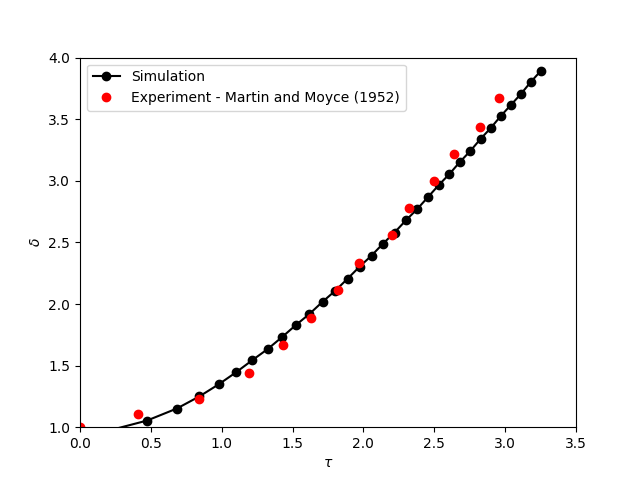
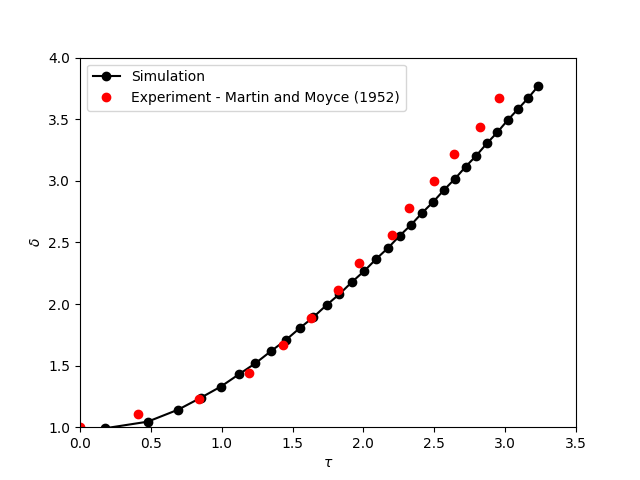
Add phase filter to the 2d dam-break VOF example

Changed region(s): [[0.1562, 0.125, 0.875, 0.9062]]

diff --git a/examples/multiphysics/dam-break/dam-break-2d.py b/examples/multiphysics/dam-break/dam-break-2d.py
@@ -41,7 +41,7 @@ phase_limit = 0.5
 output_path = sys.argv[1]
 
 # Read the pvd file to extract the times
-reader = pv.get_reader("output/dam-break.pvd")
+reader = pv.get_reader(f"{output_path}/dam-break.pvd")
 # Get active times
 time_list = reader.time_values
 

diff --git a/doc/source/examples/multiphysics/dam-break/dam-break.rst b/doc/source/examples/multiphysics/dam-break/dam-break.rst
@@ -67,9 +67,8 @@ time step of :math:`0.01` seconds.
       set time step        = 0.01
       set adapt            = true
       set max cfl          = 0.5
-      set stop tolerance   = 1e-5
       set output name      = dam-break
-      set output frequency = 10
+      set output frequency = 20
       set output path      = ./output/
     end
 
@@ -132,8 +131,12 @@ This interface sharpening method was proposed by `Aliabadi and Tezduyar (2000)`_
 frequency of interface sharpening; sharpening threshold defines 
 a phase fraction threshold for interface sharpening (generally :math:`0.5`).
 Interface sharpness is a model parameter which is generally in
-the range of :math:`(1,2]`. 
+the range of :math:`(1,2]`.
 
+3. Phase filtering
+
+The phase filtration is enable in this example. We refer the reader to the Volume of Fluid (Multiphase Flow)
+documentation for more explanation on the phase filtration.
 
 .. code-block:: text
 
@@ -146,6 +149,12 @@ the range of :math:`(1,2]`.
         set threshold           = 0.5
         set interface sharpness = 2
         set frequency           = 10
+      end
+
+      subsection phase filtration
+        set type            = tanh
+        set verbosity       = quiet
+        set beta            = 5
       end
     end
 
@@ -293,7 +302,7 @@ contains the simulation results. In post-processing, the maximum
 dimensionless lateral position of the liquid phase is tracked 
 through time and compared with the experiments of Martin and Moyce
 (1952) `[1] <https://doi.org/10.1098/rsta.1952.0006>`_. The following figure shows the result of
-the post-processing, with a very good agreement between the simulation and the experiment:
+the post-processing, with a good agreement between the simulation and the experiment:
 
 .. image:: images/xmax-t.png
     :alt: xmax_t
